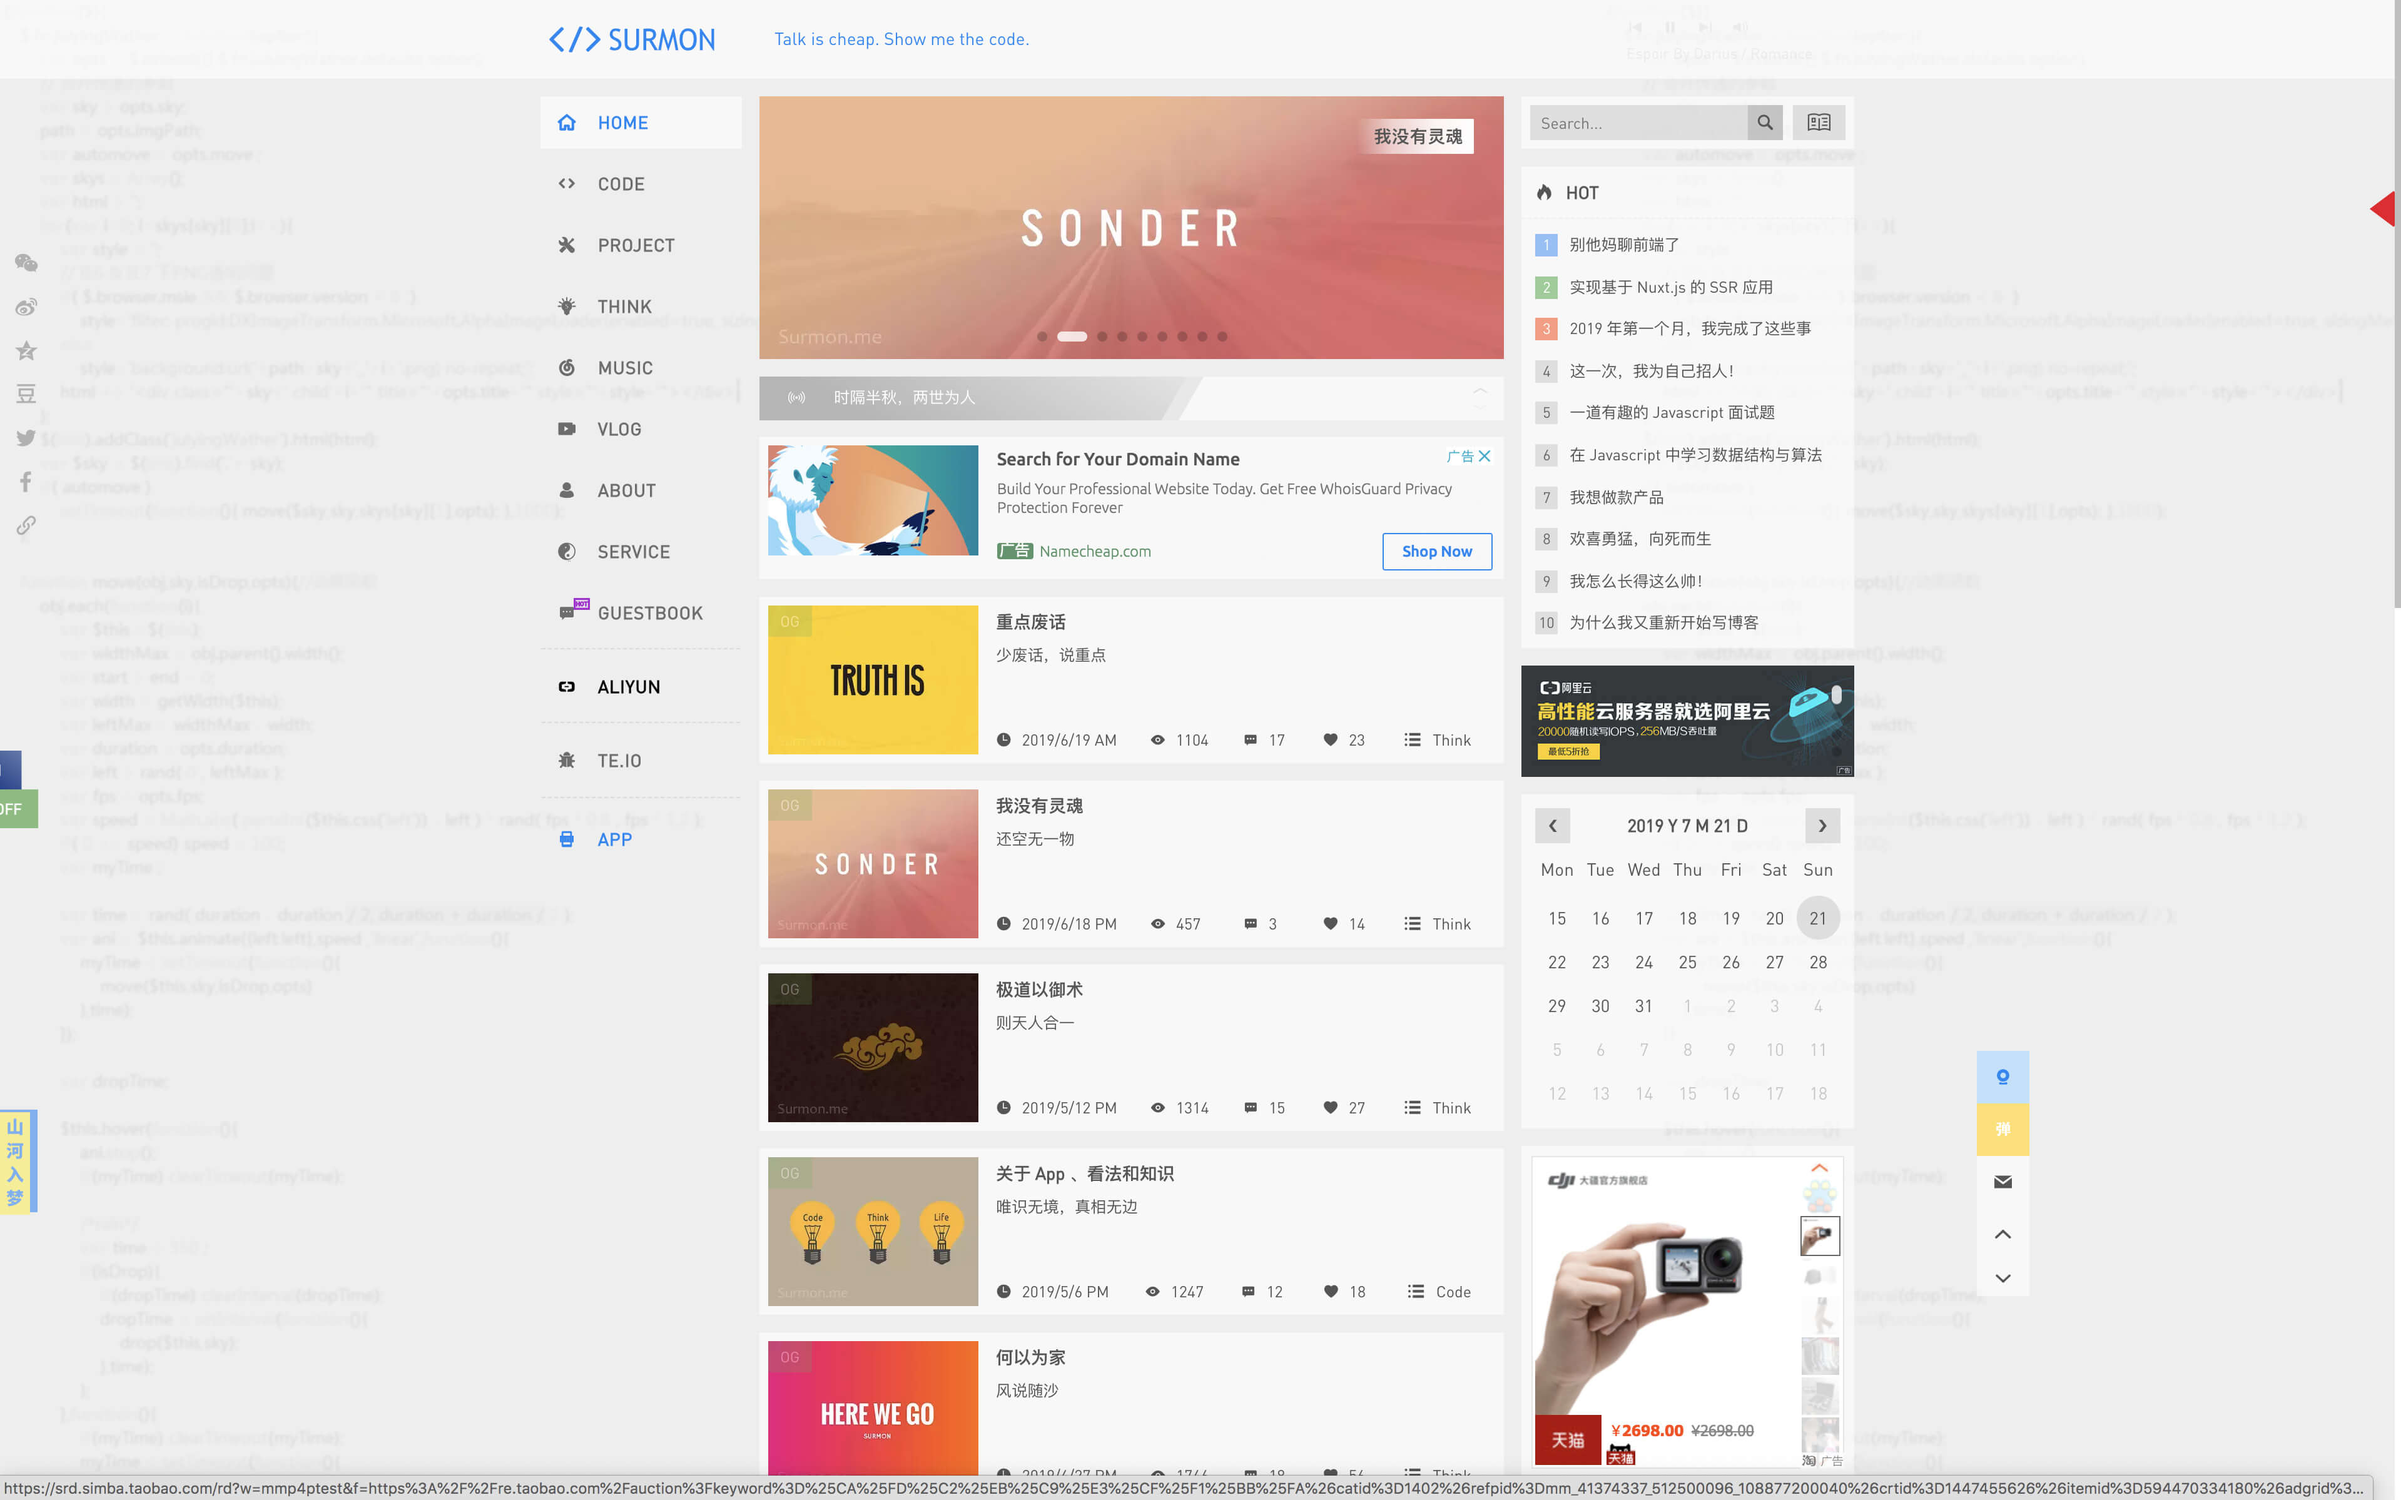
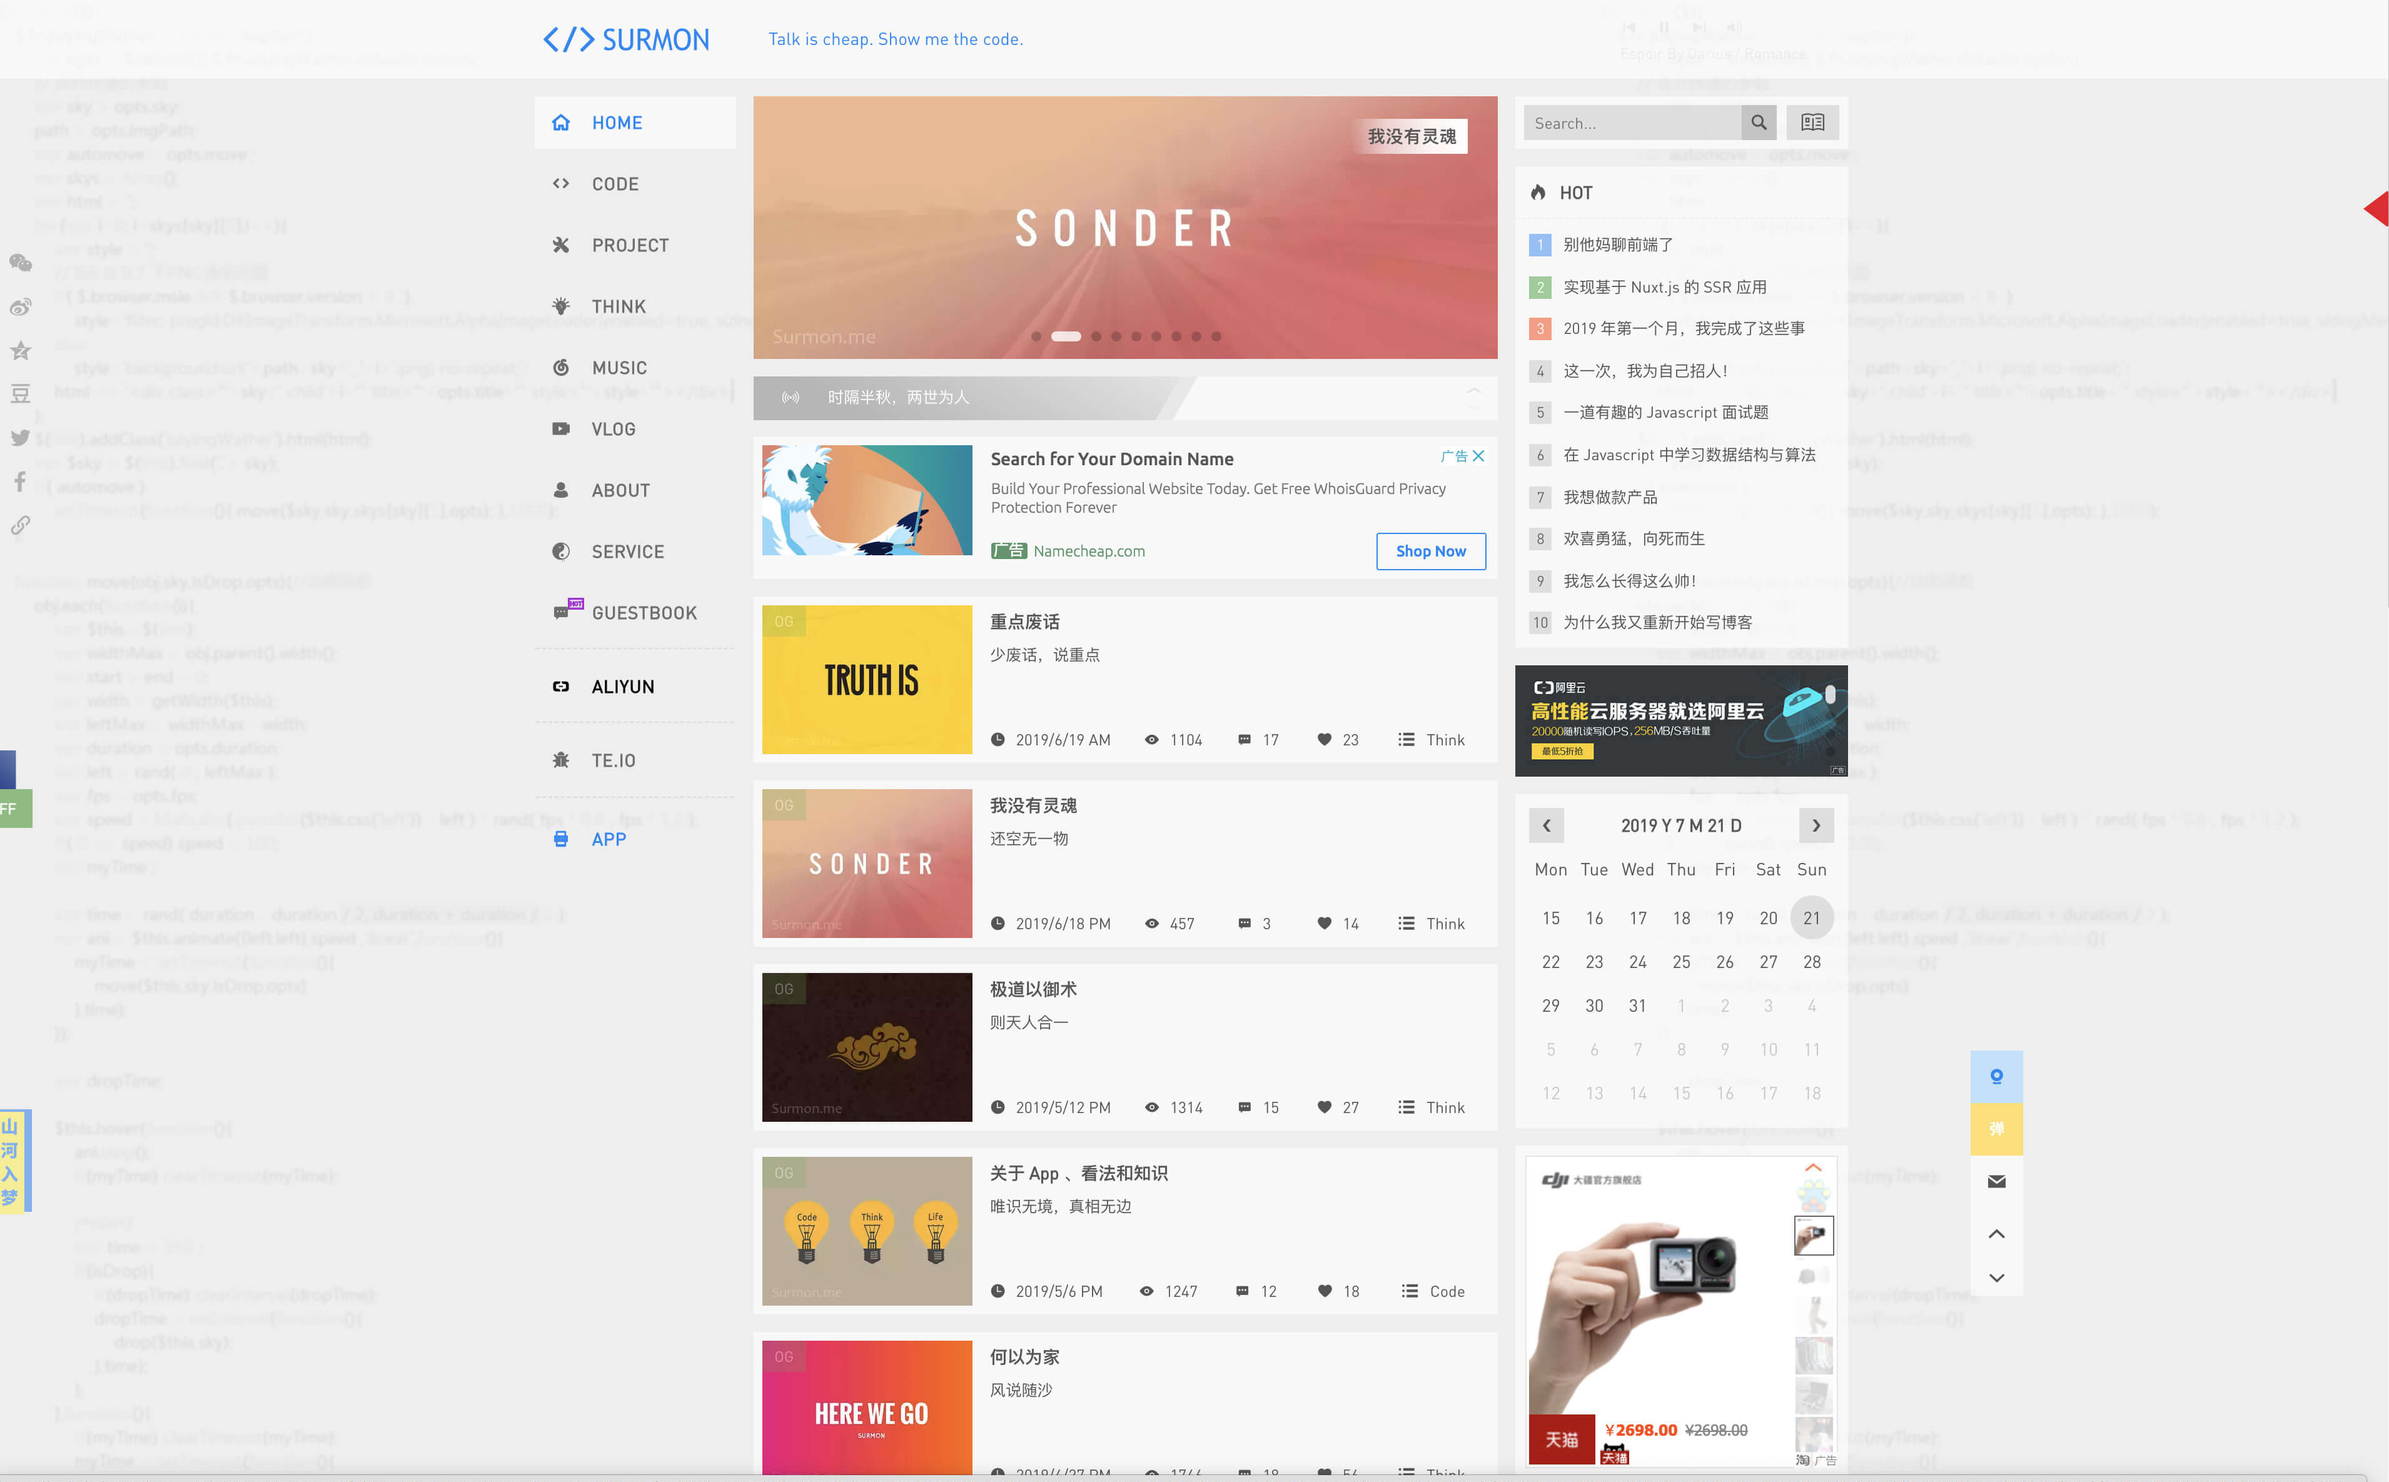
Update screenshots

diff --git a/README.md b/README.md
@@ -37,7 +37,7 @@
 
 ## Screenshot
 
-![](https://raw.githubusercontent.com/surmon-china/surmon.me/master/screenshots/pc.jpg)
+![](https://raw.githubusercontent.com/surmon-china/surmon.me/master/screenshots/pc-dark.jpg)
 
 ## Development Setup
 
